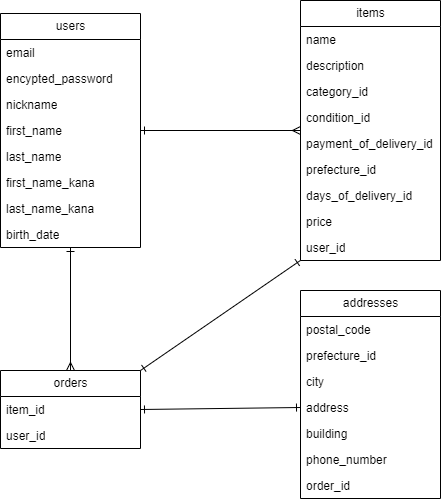
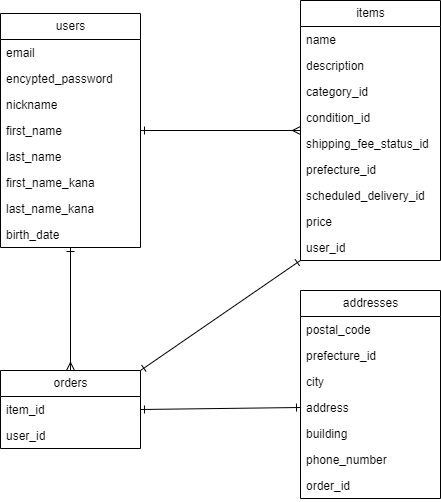
itemsテーブル作成

Changed region(s): [[0.7075, 0.3586, 0.9728, 0.4183], [0.678, 0.2689, 1.0, 0.2988]]

diff --git a/db/schema.rb b/db/schema.rb
@@ -10,8 +10,29 @@
 #
 # It's strongly recommended that you check this file into your version control system.
 
-ActiveRecord::Schema.define(version: 2023_05_29_111817) do
 ActiveRecord::Schema.define(version: 2023_06_01_113940) do
+
+  create_table "active_storage_attachments", options: "ENGINE=InnoDB DEFAULT CHARSET=utf8", force: :cascade do |t|
+    t.string "name", null: false
+    t.string "record_type", null: false
+    t.bigint "record_id", null: false
+    t.bigint "blob_id", null: false
+    t.datetime "created_at", null: false
+    t.index ["blob_id"], name: "index_active_storage_attachments_on_blob_id"
+    t.index ["record_type", "record_id", "name", "blob_id"], name: "index_active_storage_attachments_uniqueness", unique: true
+  end
+
+  create_table "active_storage_blobs", options: "ENGINE=InnoDB DEFAULT CHARSET=utf8", force: :cascade do |t|
+    t.string "key", null: false
+    t.string "filename", null: false
+    t.string "content_type"
+    t.text "metadata"
+    t.bigint "byte_size", null: false
+    t.string "checksum", null: false
+    t.datetime "created_at", null: false
+    t.index ["key"], name: "index_active_storage_blobs_on_key", unique: true
+  end
+
   create_table "items", options: "ENGINE=InnoDB DEFAULT CHARSET=utf8", force: :cascade do |t|
     t.string "name", null: false
     t.text "description", null: false
@@ -45,5 +66,6 @@ ActiveRecord::Schema.define(version: 2023_06_01_113940) do
     t.index ["reset_password_token"], name: "index_users_on_reset_password_token", unique: true
   end
 
+  add_foreign_key "active_storage_attachments", "active_storage_blobs", column: "blob_id"
   add_foreign_key "items", "users"
 end

diff --git a/db/migrate/20230601093835_create_items.rb b/db/migrate/20230601093835_create_items.rb
@@ -1,0 +1,16 @@
+class CreateItems < ActiveRecord::Migration[6.0]
+  def change
+    create_table :items do |t|
+      t.string     :name,                   null: false
+      t.text       :description,            null: false
+      t.integer    :category_id,            null: false
+      t.integer    :condition_id,           null: false
+      t.integer    :shipping_fee_status_id, null: false
+      t.integer    :prefecture_id,          null: false
+      t.integer    :scheduled_delivery_id,  null: false
+      t.integer    :price,                  null: false
+      t.references :user,                   null: false, foreign_key: true
+      t.timestamps
+    end
+  end
+end

diff --git a/spec/models/item_spec.rb b/spec/models/item_spec.rb
@@ -1,0 +1,5 @@
+require 'rails_helper'
+
+RSpec.describe Item, type: :model do
+  pending "add some examples to (or delete) #{__FILE__}"
+end

diff --git a/spec/factories/items.rb b/spec/factories/items.rb
@@ -1,0 +1,4 @@
+FactoryBot.define do
+  factory :item do
+  end
+end

diff --git a/app/models/item.rb b/app/models/item.rb
@@ -1,0 +1,2 @@
+class Item < ApplicationRecord
+end

diff --git a/README.md b/README.md
@@ -26,9 +26,9 @@
 | description            | text       | null: false                    |
 | category_id            | integer    | null: false                    |
 | condition_id           | integer    | null: false                    |
-| payment_of_delivery_id | integer    | null: false                    |
+| shipping_fee_status_id | integer    | null: false                    |
 | prefecture_id          | integer    | null: false                    |
-| days_of_delivery_id    | integer    | null: false                    |
+| scheduled_delivery_id  | integer    | null: false                    |
 | price                  | integer    | null: false                    |
 | user                   | references | null: false, foreign_key: true |
 
